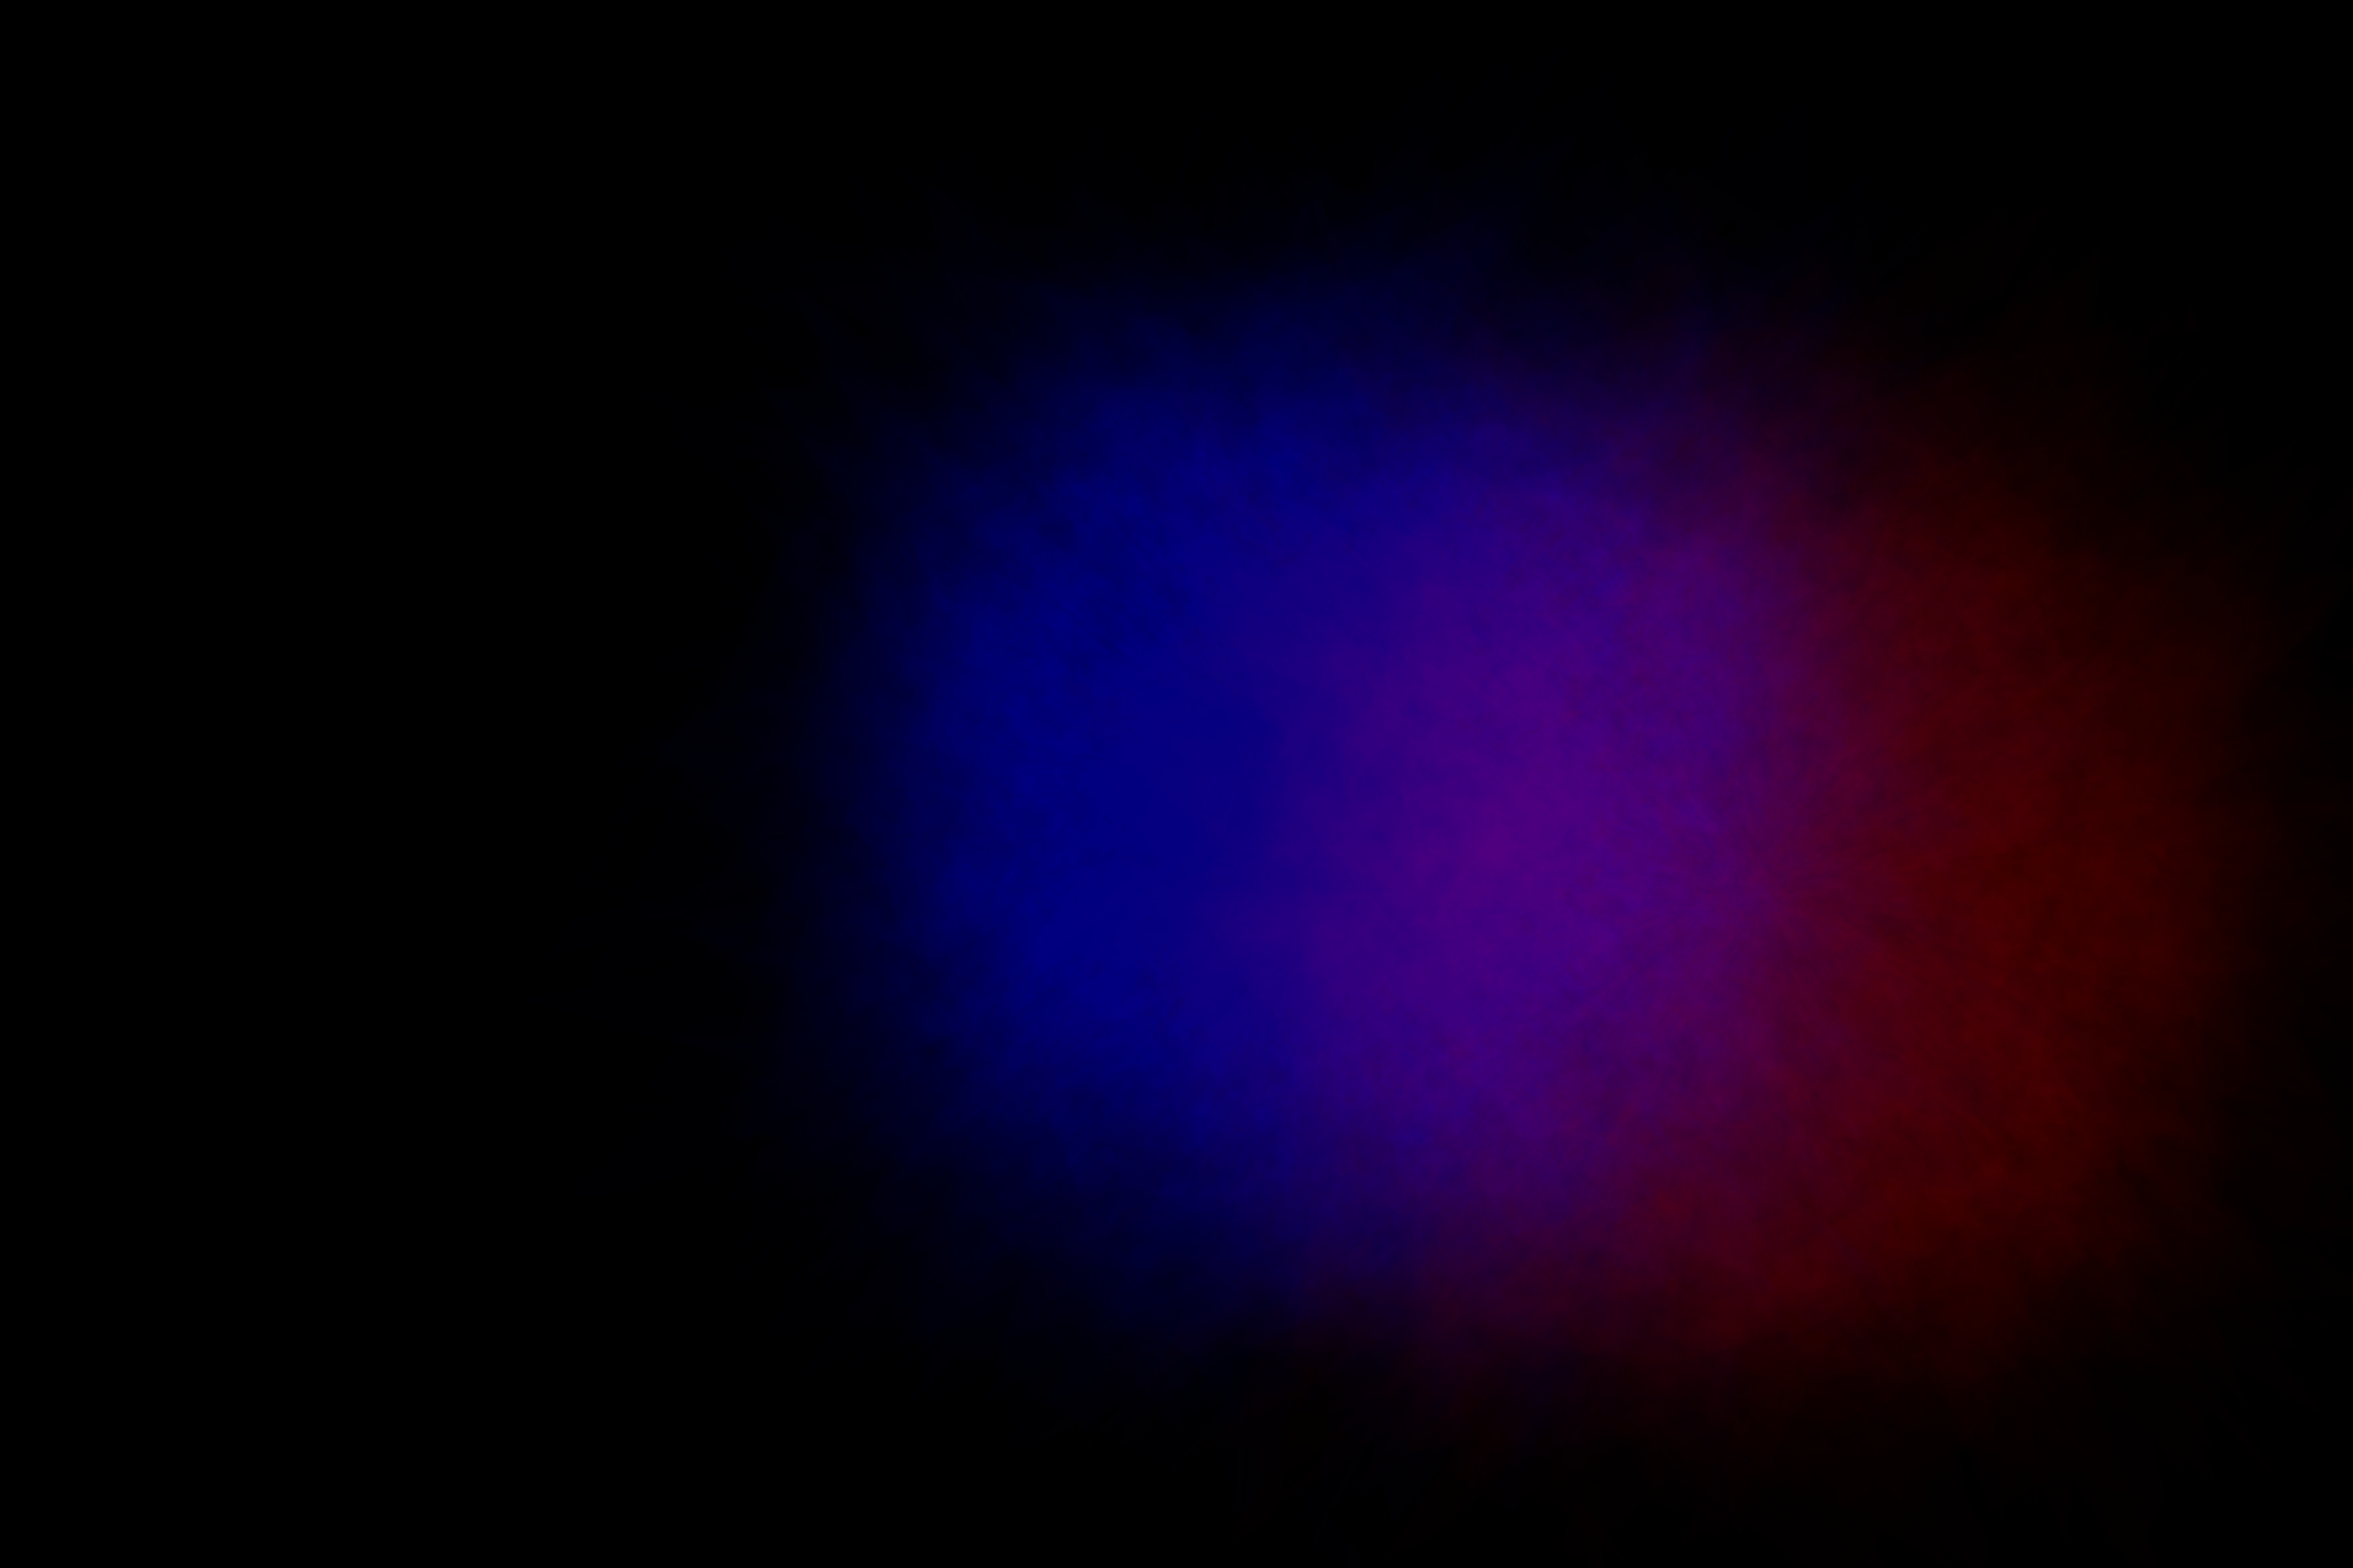
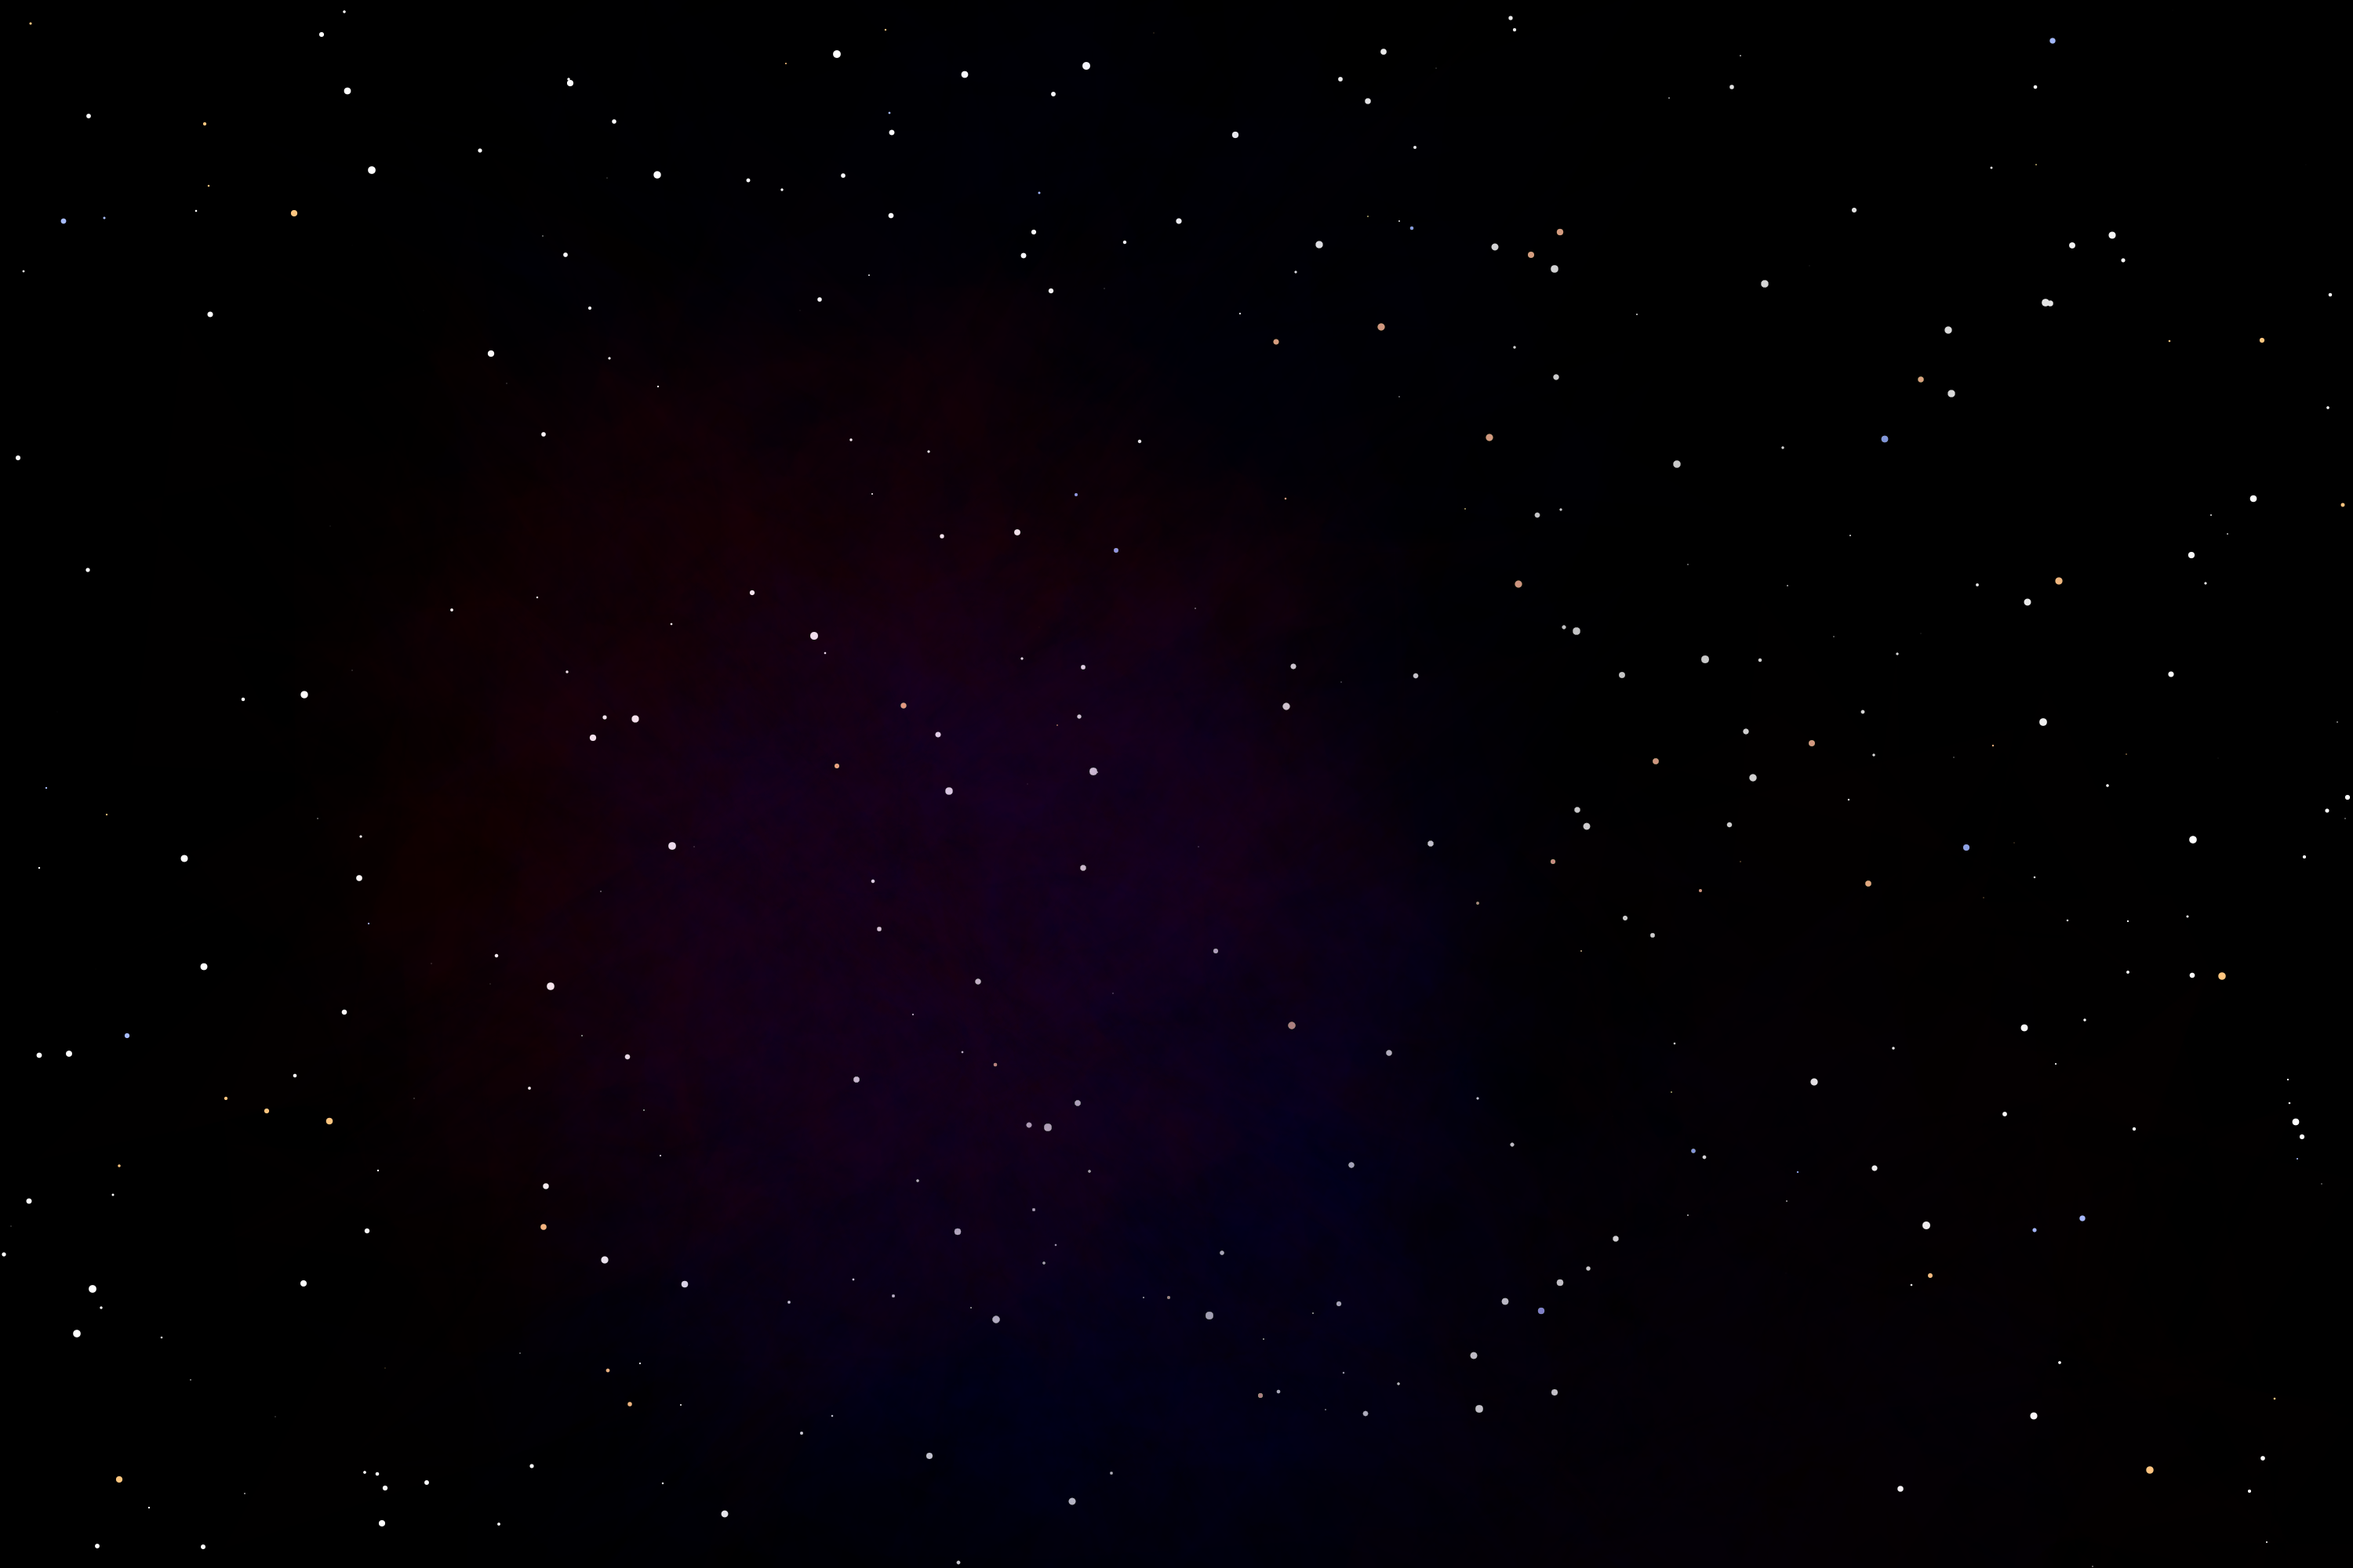
first

diff --git a/planets.py b/planets.py
@@ -1,0 +1,176 @@
+def planet():
+    import cairo
+    import PIL
+    import argparse
+    import math
+    import random
+    from PIL import Image, ImageDraw
+
+    list_of_colors = [(145, 185, 141), (229, 192, 121), (210, 191, 88), (140, 190, 178), (255, 183, 10), (189, 190, 220),
+                    (221, 79, 91), (16, 182, 98), (227, 146, 80), (241, 133, 123), (110,
+                                                                                    197, 233), (235, 205, 188), (197, 239, 247), (190, 144, 212),
+                    (41, 241, 195), (101, 198, 187), (255, 246, 143), (243, 156, 18), (189, 195, 199), (243, 241, 239)]
+
+
+    def float_gen(a, b): return random.uniform(a, b)
+
+
+    def draw_orbit(cr, line, x, y, radius, r, g, b):
+        cr.set_line_width(line)
+        cr.arc(x, y, radius, 0, 2*math.pi)
+        cr.stroke()
+        
+    # # draw_rings(cr, move_line, next_center, next_size*1.5, 0, 0, 0)
+    # # currently broken - line change in func makes planet lines thicker with radius of rings
+    # def draw_rings(cr, line, x, y, radius, r, g, b):
+    #     cr.set_line_width(line)
+    #     cr.arc(x, y, radius*1.2, 0, 2*math.pi)
+    #     cr.stroke()
+
+
+    def draw_circle_fill(cr, x, y, radius, r, g, b):
+        cr.set_source_rgb(r, g, b)
+        cr.arc(x, y, radius, 0, 2*math.pi)
+        cr.fill()
+
+
+    def draw_border(cr, size, r, g, b, width, height):
+        cr.set_source_rgb(r, g, b)
+        cr.rectangle(0, 0, size, height)
+        cr.rectangle(0, 0, width, size)
+        cr.rectangle(0, height-size, width, size)
+        cr.rectangle(width-size, 0, size, height)
+        cr.fill()
+
+    def points_on_circum(r, width, height, border):
+        print(r, "this is insive function")
+        points_positive = []
+        for x in range(0, 100):
+            xcoord = (math.cos(1.8*x) * r) + width/2
+            ycoord = (math.sin(-1.8*x) * r) + height - border
+            if((xcoord > 0 and xcoord < width-border+30) and (ycoord > 0 and ycoord < height - border + 100)):
+                points_positive.append((xcoord, ycoord))
+        # print(points_positive)
+        return points_positive
+
+
+    def main():
+        # changable values on input, these are defaults
+        width = 3000
+        height = 2000
+        orbit = True
+        line = False
+        # 4(-) not random, 6(+) random
+        random = 4
+        noise = .4
+        white_star = 350
+        blue_star = 30
+        yellow_star = 60
+        border_size = 25
+        sun_size = random.randint(100, 400)
+
+        sun_center = height - border_size
+
+        ims = cairo.ImageSurface(cairo.FORMAT_ARGB32, width, height)
+        cr = cairo.Context(ims)
+
+
+        sun_color = random.choice(list_of_colors)
+        sun_r, sun_g, sun_b = sun_color[0]/255.0, sun_color[1]/255.0, sun_color[2]/255.0
+
+        draw_circle_fill(cr, width/2, sun_center, sun_size, sun_r, sun_g, sun_b)
+
+        distance_between_planets = 20
+        last_center = sun_center
+        last_size = sun_size
+        last_color = sun_color
+
+        min_size = 5
+        max_size = 70
+
+        for x in range(1, 20):
+            next_size = random.randint(min_size, max_size)
+            next_center = last_center - last_size - \
+                (next_size * 2) - distance_between_planets
+            movement = [width/2 + (random.randint(0, width-border_size-next_center)/2),
+                        width/2 - (random.randint(0, width-border_size-next_center)/2)]
+            move_line = random.choice(movement)
+
+            if not(next_center - next_size < border_size):
+                arc = height - next_center - border_size
+                placement = random.choice(points_on_circum(
+                    arc, width, height, border_size))
+
+                if(orbit):
+                    draw_orbit(cr, 4, width/2, sun_center, height -
+                            next_center - border_size, .6, .6, .6)
+                    if(random < 5):
+                        draw_circle_fill(
+                            cr, placement[0], placement[1], next_size*1.3, 0, 0, 0)
+                    elif(random > 5):
+                        draw_circle_fill(cr, width/2, next_center,
+                                        next_size*1.3, 0, 0, 0)
+                elif(line):
+                    cr.move_to(border_size * 2, next_center)
+                    cr.line_to(width-(border_size*2), next_center)
+                    cr.stroke()
+                    if(random < 5):
+                        draw_circle_fill(cr, move_line, next_center,
+                                        next_size*1.5, 0, 0, 0)
+                    elif(random > 5):
+                        draw_circle_fill(cr, width/2, next_center,
+                                        next_size*1.5, 0, 0, 0)
+                        
+
+                rand_color = random.choice(list_of_colors)
+                while (rand_color is last_color):
+                    rand_color = random.choice(list_of_colors)
+
+                last_color = rand_color
+
+                r, g, b = rand_color[0]/255.0, rand_color[1] / \
+                    255.0, rand_color[2]/255.0
+
+                if(orbit):
+                    if(random < 5):
+                        draw_circle_fill(
+                            cr, placement[0], placement[1], next_size, r, g, b)
+                    elif(random > 5):
+                        draw_circle_fill(cr, width/2, next_center,
+                                        next_size, r, g, b)
+
+                elif(line):
+                    if(random < 5):
+                        draw_circle_fill(cr, move_line, next_center,
+                                        next_size, r, g, b)
+                    elif(random > 5):
+                        draw_circle_fill(cr, width/2, next_center,
+                                    next_size, r, g, b)
+
+                last_center = next_center
+                last_size = next_size
+
+                min_size += 5
+                max_size += 5 * x
+
+        draw_border(cr, border_size, sun_r, sun_g, sun_b, width, height)
+
+        ims.write_to_png('Examples/Generative-Space-Flat-' +
+                        str(width) + 'w-' + str(height) + 'h.png')
+
+        pil_image = Image.open('Examples/Generative-Space-Flat-' +
+                            str(width) + 'w-' + str(height) + 'h.png')
+        pixels = pil_image.load()
+
+        for i in range(pil_image.size[0]):
+            for j in range(pil_image.size[1]):
+                r, g, b = pixels[i, j]
+
+                noise = float_gen(1.0 - noise, 1.0 + noise)
+                pixels[i, j] = (int(r*noise), int(g*noise), int(b*noise))
+        pil_image.save('Examples/Generative-Space-Texture-' +
+                    str(width) + 'w-' + str(height) + 'h.png')
+
+
+    if __name__ == "__main__":
+        main()

diff --git a/nebula_generator.py b/nebula_generator.py
@@ -1,5 +1,6 @@
   
 import cairo, sys, argparse, copy, math, random
+from planets import planet
 
 def make_nebula():
 
@@ -9,11 +10,11 @@ def make_nebula():
     # for x in range(10):
     #     colors.append((0,0,0))
     for i in range(15):
-        colors.append((float_gen(.1, 1.3), float_gen(.1, .5), float_gen(.1, 1.3)))
+        colors.append((float_gen(.1, 1.7), float_gen(.1, .5), float_gen(.1, 1.7)))
         colors.append((0, 0, 0))
 
     def octagon(x_orig, y_orig, side):
-        side = side * random.randint(1, 3)
+        side = side * 5
         x = x_orig
         y = y_orig
         d = side / math.sqrt(2)
@@ -69,8 +70,8 @@ def make_nebula():
         parser.add_argument("-bd", "--basedeforms", default=1, type=int)
         parser.add_argument("-fd", "--finaldeforms", default=3, type=int)
         parser.add_argument("-mins", "--minshapes", default=1, type=int)
-        parser.add_argument("-maxs", "--maxshapes", default=200, type=int)
-        parser.add_argument("-sa", "--shapealpha", default=.0045, type=float)
+        parser.add_argument("-maxs", "--maxshapes", default=30, type=int)
+        parser.add_argument("-sa", "--shapealpha", default=.004, type=float)
         # parser.add_argument("--mult", default=random.randint(1, 5), type=range)
         args = parser.parse_args()
 
@@ -108,6 +109,25 @@ def make_nebula():
         
 
         cr.set_line_width(1)
+        white = 300
+        yellow = 60
+        blue = 20
+        for x in range(0, white):
+        # x, y, radius, angle1, angle2
+            cr.arc(random.randint(0, width), random.randint(
+                0, height), random.uniform(.1, 5), 0, 2*math.pi)
+            cr.set_source_rgb(255, 255, 255)
+            cr.fill()
+        for x in range(0, yellow):
+            cr.arc(random.randint(0, width), random.randint(
+                0, height), random.uniform(.1, 5), 0, 2*math.pi)
+            cr.set_source_rgb(1, 198/255, 127/255)
+            cr.fill()
+        for x in range(0, blue):
+            cr.arc(random.randint(0, width), random.randint(
+                0, height), random.uniform(.1, 5), 0, 2*math.pi)
+            cr.set_source_rgb(167/255, 188/255, 1)
+            cr.fill()
 
         for p in range(-int((height*.2)/3), int((height*1.2)/3), 80):
             cr.set_source_rgba(random.choice(colors)[0], random.choice(colors)[1], random.choice(colors)[2], shapealpha)
@@ -142,8 +162,8 @@ def make_nebula():
         #             cr.line_to(layer[i][0], layer[i][1])
         #         cr.fill()
 
-        
-        ims.write_to_png('Examples/nebula' + '.png')
+        planet()
+        # ims.write_to_png('Examples/nebula' + '.png')
 
     if __name__ == "__main__":
         main()
